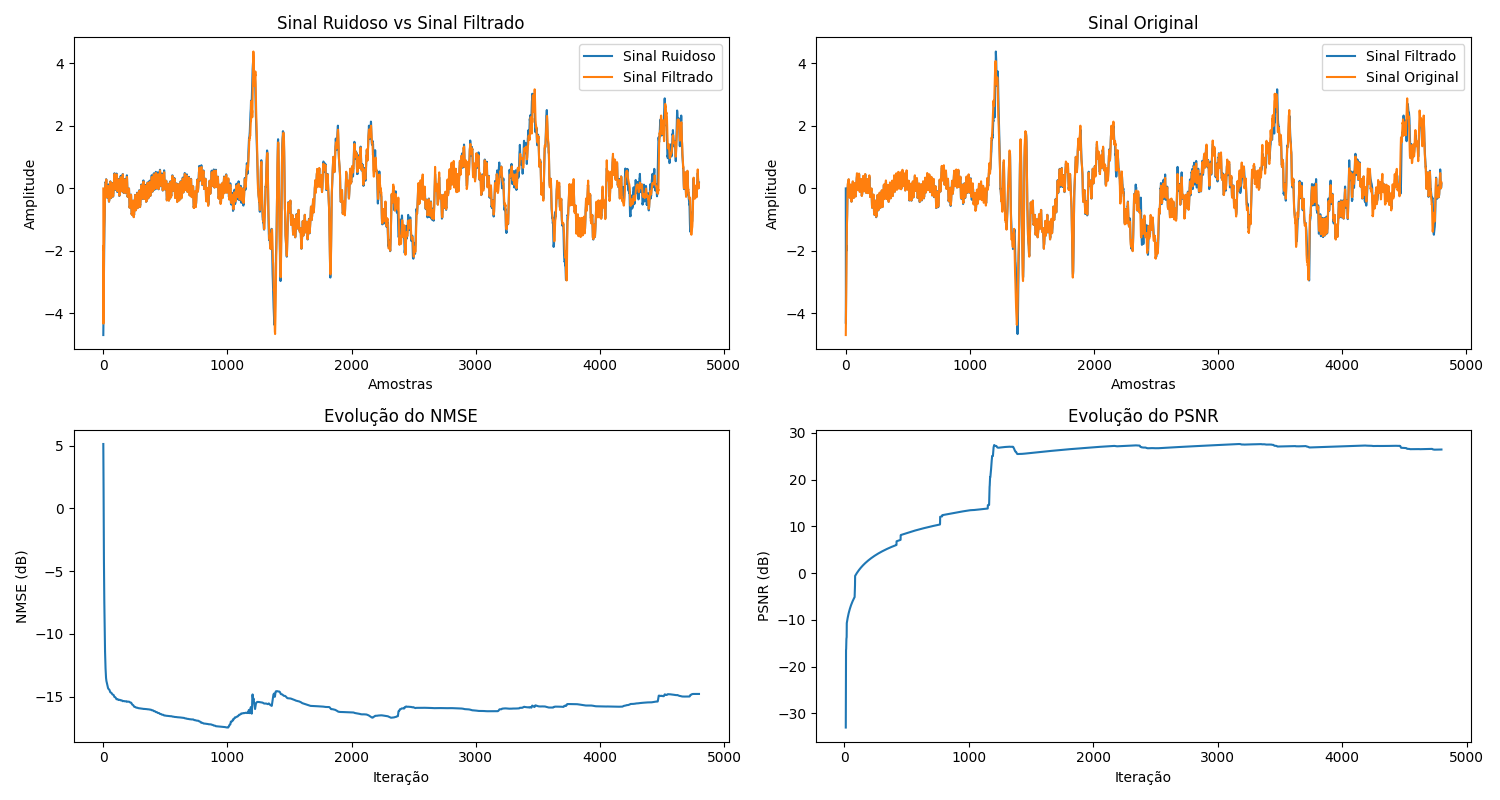
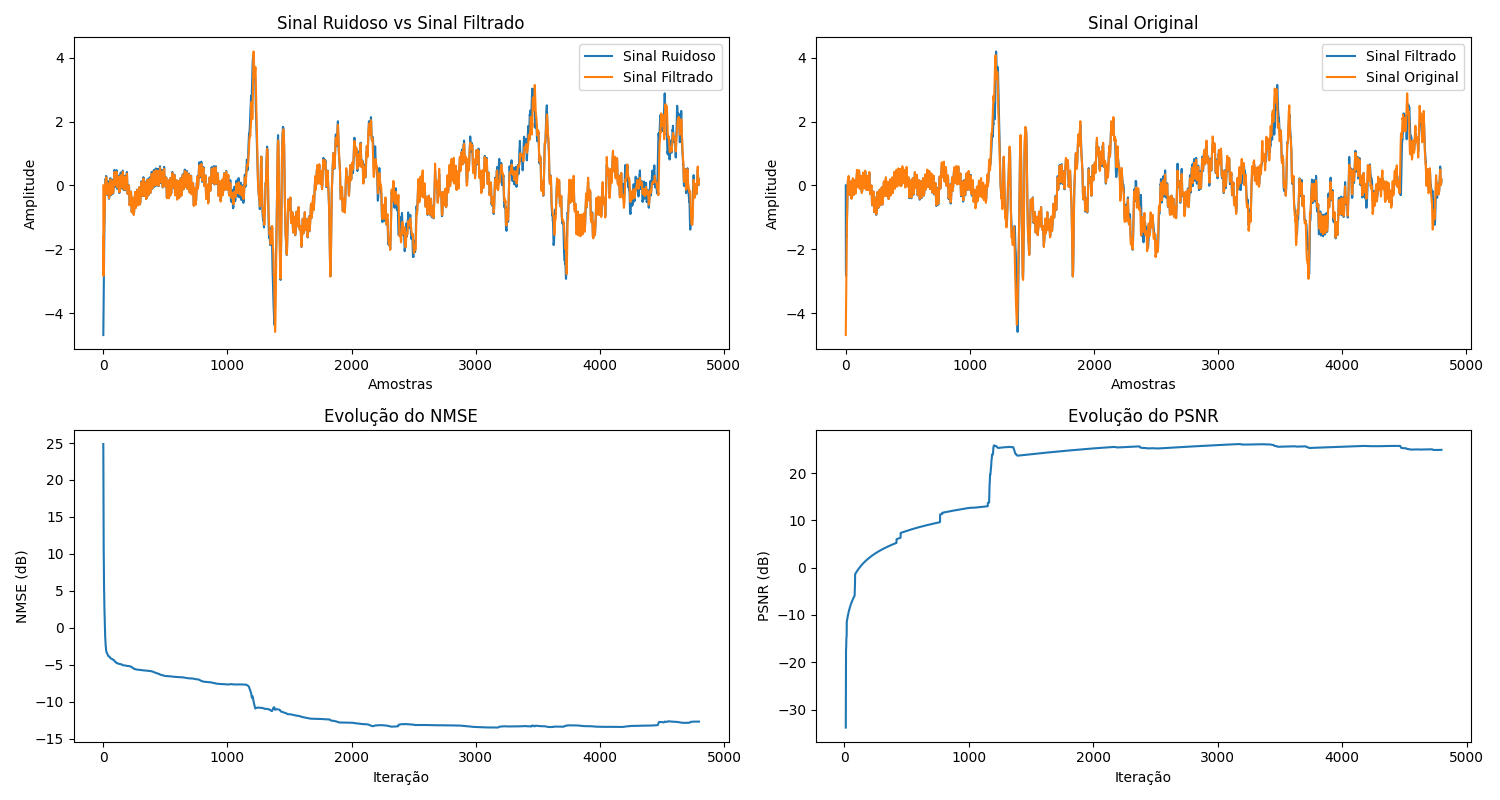
.

diff --git a/KFLMS/data teste2.py b/KFLMS/data teste2.py
@@ -63,7 +63,7 @@ x_noisy = x + v
 
 # Parâmetros do KLMS
 input_size = 2
-step_size = 1.0
+step_size = 0.6
 sigma = 1.0
 max_memory = 1000  # Limite de memória para o kernel
 
@@ -83,7 +83,7 @@ for i in tqdm(range(len(x_noisy)), desc="Treinamento do KLMS"):
     errors.append(e)
     
     if i > 0:
-        mse = np.mean(np.square(errors[2:]))
+        mse = np.mean(np.square(errors))
         variance = np.var(x[:i+1])
         nmse = 10 * np.log10(mse / variance)
         nmse_values.append(nmse)

diff --git a/README.md b/README.md
@@ -1,5 +1,8 @@
 
 # Algoritmo de Kernel Filtered-x Least Mean Square (KFxLMS)
+
+## (KFxLMS) -Pendente-
+
 ## Melhor resultado KFLMS (Kernel Filtered Least Mean Squares)
 
 ![Teste](/KFLMS/resultados%20csv2.png)
